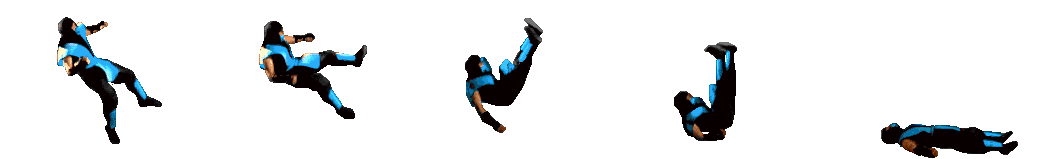
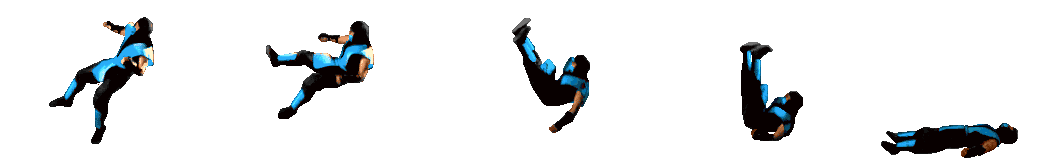
Agrego bloqueo al ejecutar patadas.

diff --git a/trunk/src/modelo/Personaje.cpp b/trunk/src/modelo/Personaje.cpp
@@ -190,13 +190,13 @@ void Personaje::piniaSaltandoVertical(){
 
 void Personaje::patadaAlta(){
 	cambiarEstado(new PatadaAlta(posicion, (*cajasPorEstado)[PATEANDO_ALTO]));
-	//bloquearPersonaje(50);
+	bloquearPersonaje(50);
 	Logger::getInstance()->debug("Personaje: patada alta.");
 }
 
 void Personaje::patadaBaja(){
     cambiarEstado(new PatadaBaja(posicion, (*cajasPorEstado)[PATEANDO_BAJO]));
-    //bloquearPersonaje(50);
+    bloquearPersonaje(50);
 	Logger::getInstance()->debug("Personaje: patada baja.");
 }
 
@@ -292,21 +292,15 @@ bool Personaje::empujar(Direccion direccionEmpuje, Vector2f diferencia) {
 }
 
 void Personaje::colisionar(Colisionable* otro){
-
     if (estaAtacando()) {
-    	cout<<"estaAtacando"<<endl;
         ataqueActual = estado->obtenerAtaque();
     }else if (estaDefendiendo()){
-    	cout<<"estaDefendiendo recibe 1/4 de daño"<<endl;
     	recibirDanio(otro->obtenerDanio() / 4);
     }else if (estaAgachado() && (otro->verEstado()->estaAgachado() && otro->verEstado()->estaAtacando())){
-    	cout<<"estaAgachado"<<endl;
         recibirDanio(otro->obtenerDanio());
     }else if (estaAgachado() && (otro->verEstado()->estaSaltando() && otro->verEstado()->estaAtacando())){
-    	cout<<"estaAgachado"<<endl;
         recibirDanio(otro->obtenerDanio());
     }else if (estaCaminando()) {
-    	cout<<"estaCaminando"<<endl;
         arrastrar(otro);
         recibirDanio(otro->obtenerDanio());
     } else{
@@ -396,7 +390,6 @@ void Personaje::calcularNuevaPosicion(Colisionable* enemigo){
       }else{
     	  caer();
       }
-   // } else if (estaEnReposo() || estaAgachado()) {
     } else {
         colisionar(enemigo);
     }
@@ -496,7 +489,7 @@ BVH* Personaje::obtenerCajaColision(){
 
 
 void Personaje::bloquearPersonaje(float segundos){
-	cambiarEstado(new Bloqueado(estado->Id(), estado->getTrayectoria(), estado->obtenerCajaColision()));
+	cambiarEstado(new Bloqueado(estado));
 	this->tiempoBloqueo = segundos;
 }
 

diff --git a/trunk/src/modelo/estado/Bloqueado.cpp b/trunk/src/modelo/estado/Bloqueado.cpp
@@ -1,13 +1,11 @@
 #include "Bloqueado.h"
 
-#include "EnEspera.h"
+#include "Estado.h"
 
-Bloqueado::Bloqueado(Trayectoria* trayActual, BVH* caja) :
-    Estado(trayActual, BLOQUEADO, caja){
-}
-
-Bloqueado::Bloqueado(estado_personaje estadoInicial,Trayectoria* trayActual, BVH* caja) :
-    Estado(trayActual, estadoInicial, caja){
+Bloqueado::Bloqueado(Estado* estadoActual) :
+    Estado(estadoActual->getTrayectoria(), estadoActual->Id(), estadoActual->obtenerCajaColision()){
+	ataqueEstado = new Ataque(estadoActual->obtenerAtaque()->obtenerDanio());
+	bandera = estadoActual->estaAtacando();
 }
 
 Bloqueado::~Bloqueado(){
@@ -15,4 +13,13 @@ Bloqueado::~Bloqueado(){
 
 bool Bloqueado::estaBloqueado(){
     return true;
+}
+
+bool Bloqueado::estaAtacando(){
+	cout<<"Entro a chequear Bloqueado::estaAtacando()"<<endl;
+	if (bandera){
+		cout<<"Chequea esta atacando: bandera True"<<endl;
+		return true;
+	}
+	return false;
 }

diff --git a/trunk/src/modelo/estado/Bloqueado.h b/trunk/src/modelo/estado/Bloqueado.h
@@ -3,16 +3,16 @@
 
 #include "Estado.h"
 
-
 class Bloqueado : public Estado
 {
     public:
-        Bloqueado(Trayectoria* trayActual, BVH* caja);
-        Bloqueado(estado_personaje estadoInicial, Trayectoria* trayActual, BVH* caja);
+        Bloqueado(Estado* estadoActual);
         virtual ~Bloqueado();
         bool estaBloqueado();
+        bool estaAtacando();
     protected:
     private:
+        bool bandera;
 };
 
 #endif // BLOQUEADO_H

diff --git a/trunk/src/modelo/estado/Estado.cpp b/trunk/src/modelo/estado/Estado.cpp
@@ -22,6 +22,7 @@ Ataque* Estado::obtenerAtaque(){
 }
 
 bool Estado::estaAtacando(){
+
     return false;
 }
 
